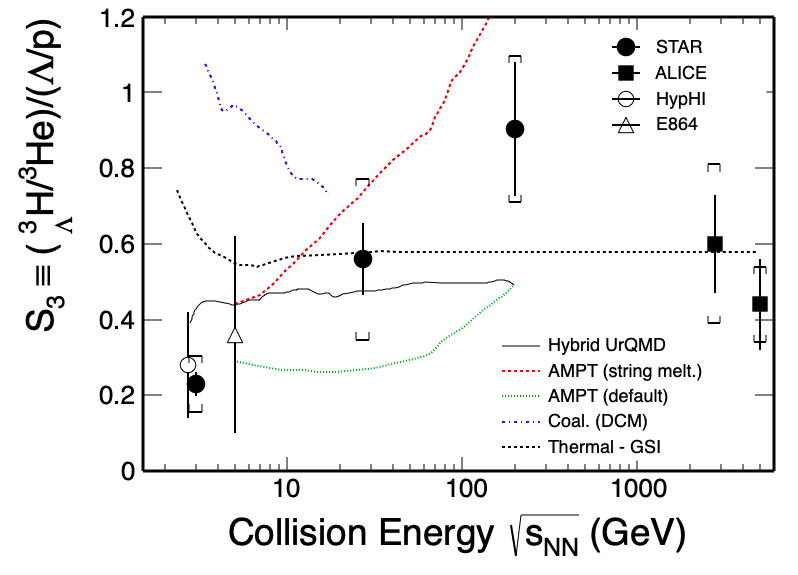
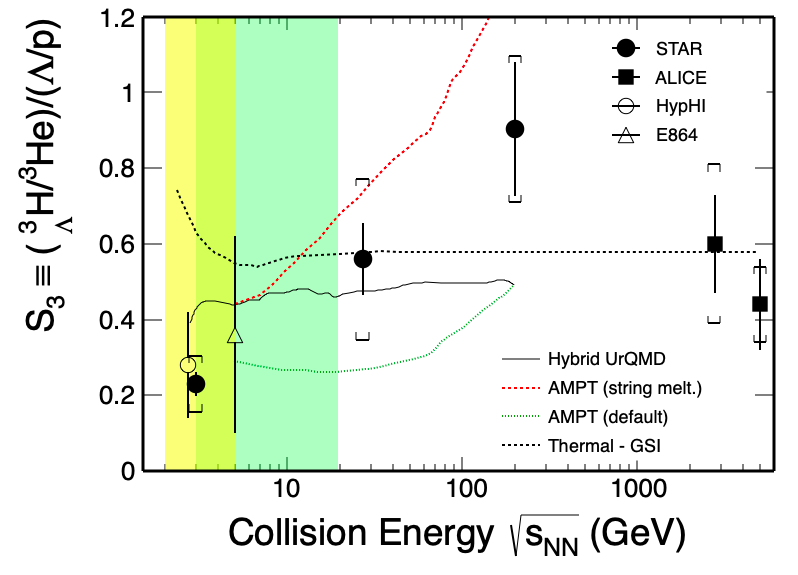
BES/CBM energy boxes highlighted DCM model curve removed

diff --git a/Hypernuclei/s3.C b/Hypernuclei/s3.C
@@ -9,9 +9,12 @@ void s3(){
   TF1 *fMuB = new TF1("MuB","1307.5/(1+0.288*x)",2.,1e5);
   
 
-  const Int_t NM = 5;
-  const Char_t *FileName[NM] = {"hybridurqmd","stringmeltingampt","defaultampt","coalescencedcm","thermalmodelgsi"};
-  const Char_t *LegendName[NM] = {"Hybrid UrQMD","AMPT (string melt.)","AMPT (default)","Coal. (DCM)","Thermal - GSI"};
+  // const Int_t NM = 5;
+  // const Char_t *FileName[NM] = {"hybridurqmd","stringmeltingampt","defaultampt","coalescencedcm","thermalmodelgsi"};
+  // const Char_t *LegendName[NM] = {"Hybrid UrQMD","AMPT (string melt.)","AMPT (default)","Coal. (DCM)","Thermal - GSI"};
+  const Int_t NM = 4;
+  const Char_t *FileName[NM] = {"hybridurqmd","stringmeltingampt","defaultampt","thermalmodelgsi"};
+  const Char_t *LegendName[NM] = {"Hybrid UrQMD","AMPT (string melt.)","AMPT (default)","Thermal - GSI"};
   TGraph *gr_M[NM];
   TGraph *gr_M_muB[NM];
   for(int i=0;i<NM;i++) {
@@ -61,8 +64,13 @@ void s3(){
   h0->SetMinimum(y1);
   h0->Draw();
 
-  const Int_t lineColor[NM] = {kBlack,kRed,kGreen+2,kBlue,kBlack};
-  const Int_t lineStyle[NM] = {1,2,3,4,2};
+  drawColorBox(3.0, y1, 19.6, y2, kGreen-4, 0.3);
+  drawColorBox(2.0, y1, 5.0, y2, 5, 0.5);
+  
+  // const Int_t lineColor[NM] = {kBlack,kRed,kGreen+2,kBlue,kBlack};
+  // const Int_t lineStyle[NM] = {1,2,3,4,2};
+  const Int_t lineColor[NM] = {kBlack,kRed,kGreen+2,kBlack};
+  const Int_t lineStyle[NM] = {1,2,3,2};
   for(int i=0;i<NM;i++) {
     gr_M[i]->SetLineColor(lineColor[i]);
     gr_M[i]->SetLineStyle(lineStyle[i]);
@@ -85,14 +93,14 @@ void s3(){
     gr_D[i]->Draw("p");
   }
   
-  TLegend *leg = new TLegend(0.62, 0.2, 0.89, 0.42);
+  TLegend *leg = new TLegend(0.62, 0.2, 0.89, 0.4);
   leg->SetLineColor(10);
   leg->SetTextSize(0.035);
   for(int i=0;i<NM;i++) 
     leg->AddEntry(gr_M[i], LegendName[i], "l");
   leg->Draw();
 
-  leg = new TLegend(0.76, 0.76, 0.96, 0.94);
+  leg = new TLegend(0.76, 0.74, 0.96, 0.94);
   leg->SetLineColor(10);
   leg->SetTextSize(0.035);
   leg->AddEntry(gr_D[2], "  STAR", "pl");
@@ -100,7 +108,7 @@ void s3(){
   leg->AddEntry(gr_D[0], "  HypHI", "pl");
   leg->AddEntry(gr_D[1], "  E864", "pl");
   leg->Draw();
-  
+
   
   drawHistBox(x1,x2,y1,y2);
   drawText(8.2, -0.07, "10");
@@ -129,6 +137,9 @@ void s3(){
   h0->SetMinimum(y1);
   h0->Draw();
 
+  drawColorBox(fMuB->Eval(19.6), y1, fMuB->Eval(3.0), y2, kGreen-4, 0.3);
+  drawColorBox(fMuB->Eval(5.0), y1, fMuB->Eval(2.0), y2, 5, 0.5);
+
   for(int i=0;i<NM;i++) {
     gr_M_muB[i]->SetLineColor(lineColor[i]);
     gr_M_muB[i]->SetLineStyle(lineStyle[i]);
@@ -148,15 +159,18 @@ void s3(){
     gr_D_muB[i]->Draw("p");
   }
   
-  leg = new TLegend(0.7, 0.72, 0.95, 0.94);
+  leg = new TLegend(0.7, 0.74, 0.95, 0.94);
+  leg->SetFillStyle(0);
+  leg->SetBorderSize(0.001);
   leg->SetLineColor(10);
   leg->SetTextSize(0.035);
   for(int i=0;i<NM;i++) 
     leg->AddEntry(gr_M_muB[i], LegendName[i], "l");
   leg->Draw();
 
-  leg = new TLegend(0.82, 0.52, 0.96, 0.7);
-  leg->SetLineColor(10);
+  leg = new TLegend(0.55, 0.74, 0.7, 0.94);
+  leg->SetFillStyle(0);
+  leg->SetBorderSize(0.001);
   leg->SetTextSize(0.035);
   leg->AddEntry(gr_D[2], "  STAR", "pl");
   leg->AddEntry(gr_D[4], "  ALICE", "pl");

diff --git a/Hypernuclei/draw.C b/Hypernuclei/draw.C
@@ -1,6 +1,7 @@
 #include "TLine.h"
 #include "TLatex.h"
 #include "TGraphErrors.h"
+#include "TBox.h"
 #include "iostream"
 
 void drawHistBox(double x1=0., double x2=1., double y1=0., double y2=1., int lineWidth=3333, int lineStyle=1, int lineColor=1)
@@ -101,6 +102,14 @@ void drawSysError(TGraphErrors *gr, double xoffset=0.05, double yoffset=0.03, in
     lb2->SetLineColor(lineColor);
     lb2->Draw("same");
   }
+}
+
+void drawColorBox(double x1, double y1, double x2, double y2, int fillColor=5, float alpha=0.5)
+{
+  TBox *box = new TBox(x1,y1,x2,y2);
+  box->SetFillColorAlpha(fillColor, alpha);
+  box->SetLineColorAlpha(fillColor, alpha);
+  box->Draw("same");
 }
 
 void setGraphMarker(TGraphErrors *gr, int markerStyle=20, int markerColor=1, double markerSize=1.5)
